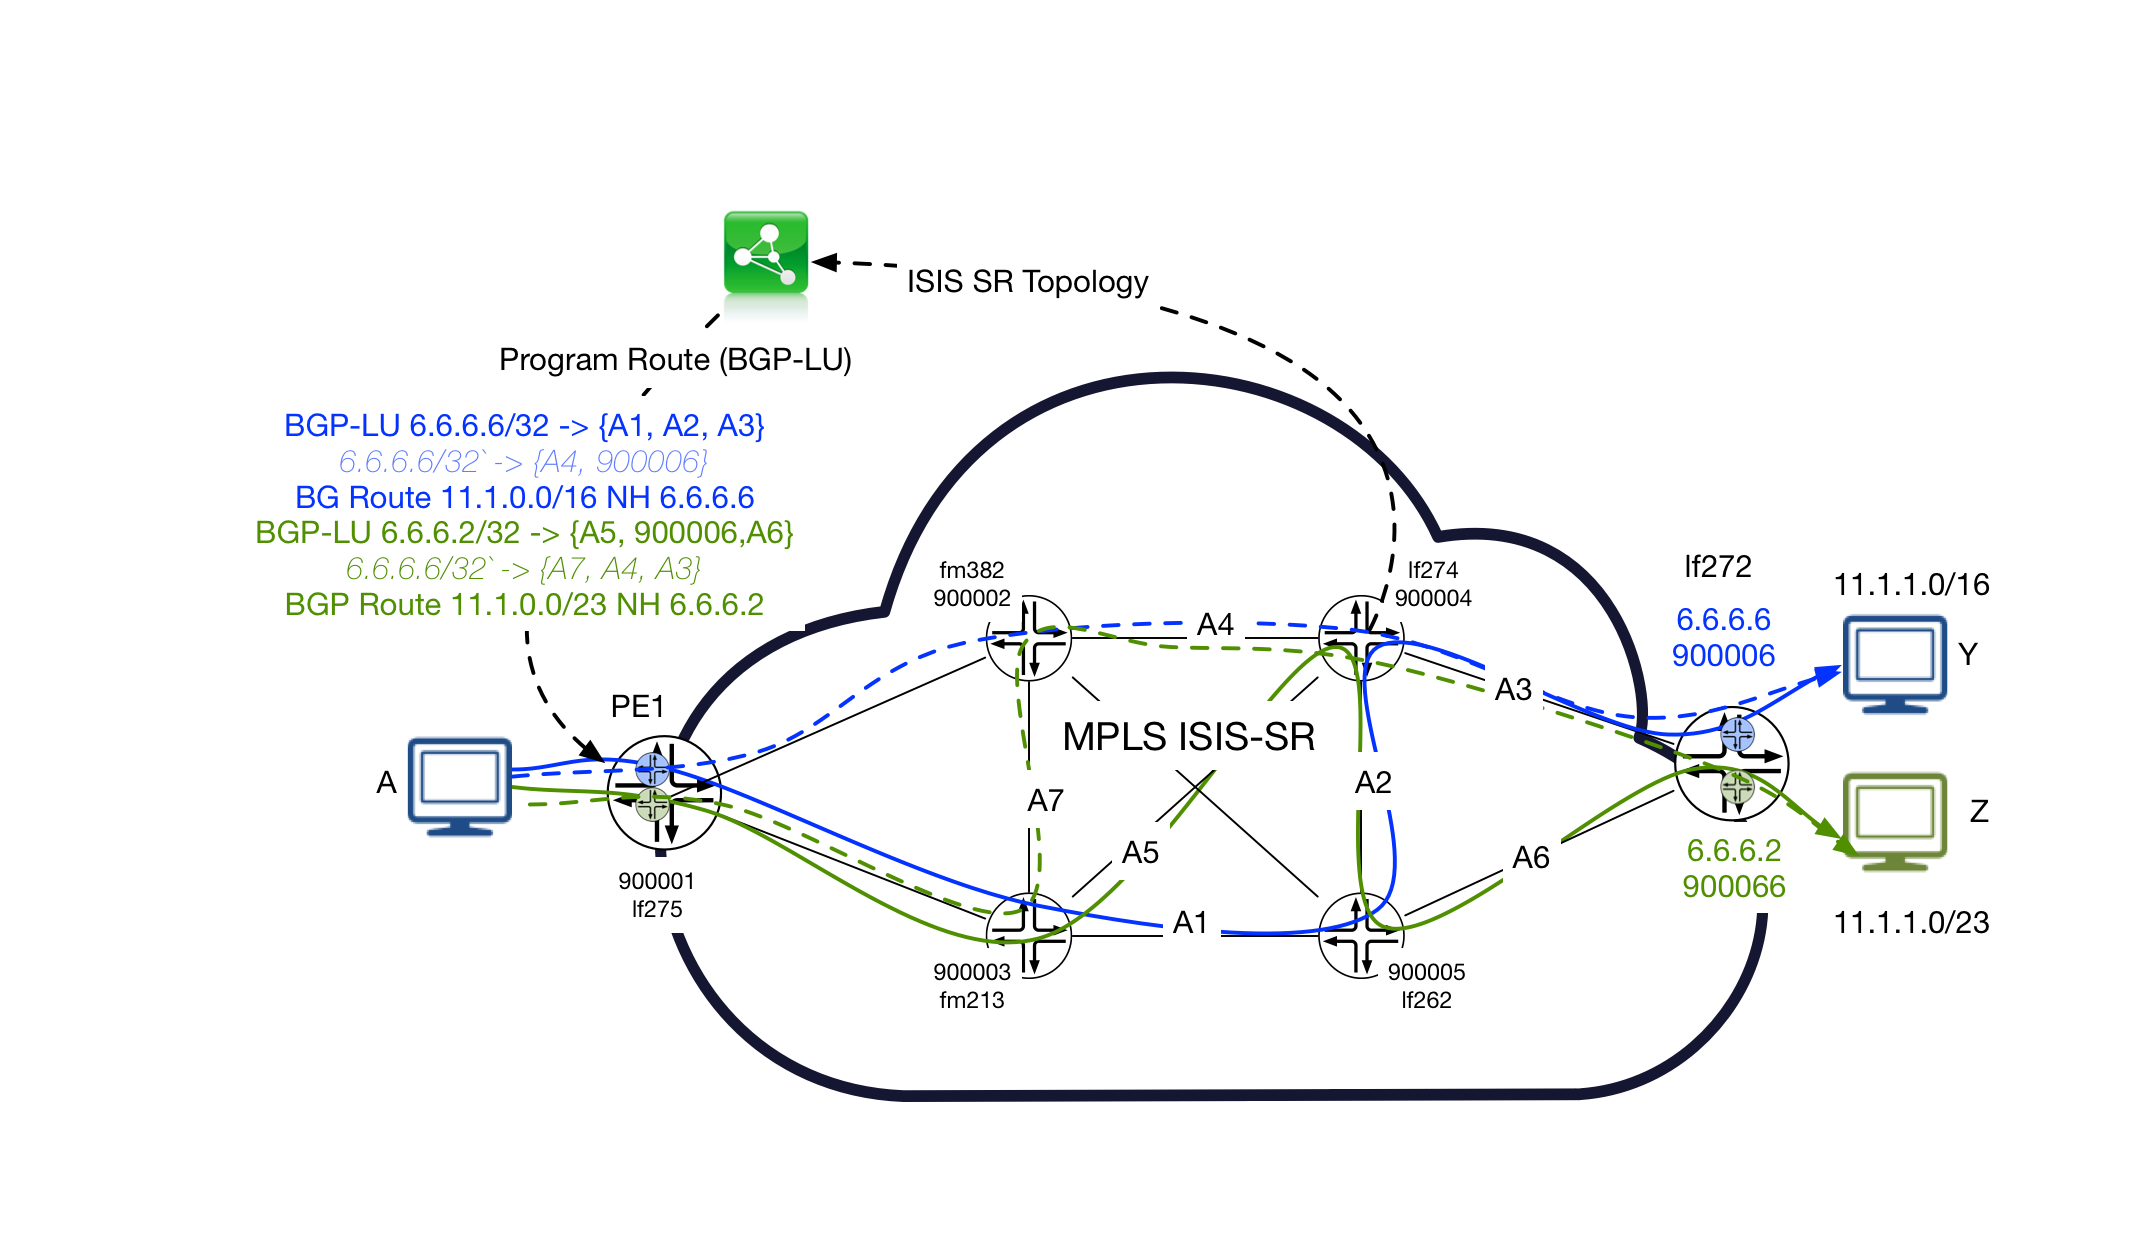
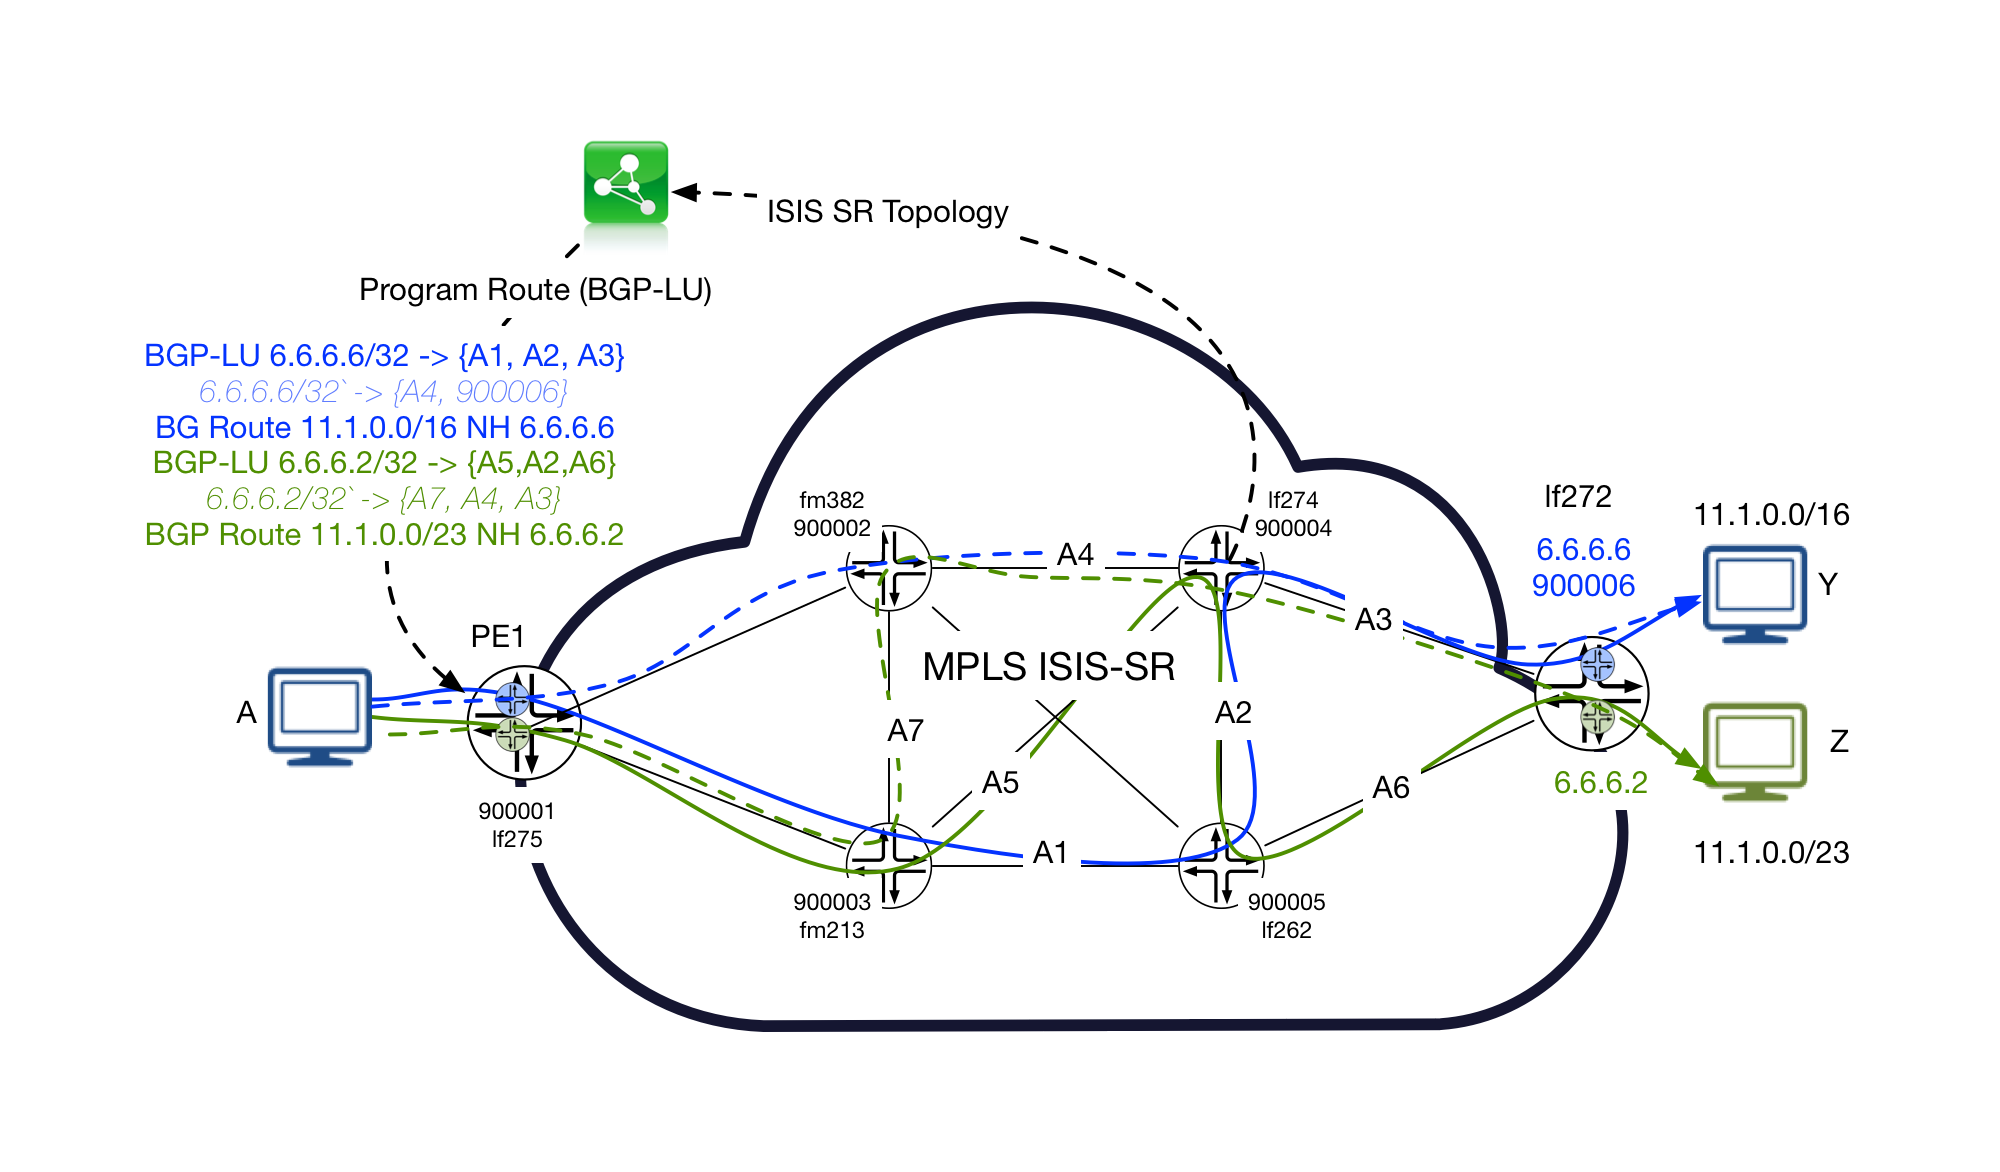
Change Feb7th
Amended Diagrams - changed Makefile and DockerFile.  Changed sr_demo to
add topology change add/remove before path add/remote API.  Also
changed from FEC+NH to just FEC for primary secondary promotion/demotion

diff --git a/sr_demo.py b/sr_demo.py
@@ -39,7 +39,7 @@ C = "show isis database detail"
 ###  System has a 1 second wait at end - so switch doesn't blow.
 
 COMMANDS = [C]
-CONTROLLER_IP = '172.24.73.61'
+CONTROLLER_IP = '192.168.1.2'
 DEADTIMECOUNTER = 1
 DEADTIMETIMER = 0.5
 BGP_LU_Peer = '172.24.74.46'
@@ -490,9 +490,10 @@ class AddRemoveRoutes(Process):
 							Path_String = ' '.join(self.data['path'])
 							currentpath = str(self.data['fec'])+' next-hop ' + str(self.data['dstFecNH']) + ' label ['+str(Path_String)+']'
 							current_fec_NH = str(self.data['fec'])+' next-hop ' + str(self.data['dstFecNH'])
+							current_fec = str(self.data['fec'])
 							
-		### Do a couple of funky operations.  1) If the currentpath is in Primary path list - skip. 2) If the FEC+NH are the Same
-		### The put the "latest" in Primary and relegate the old one to secondary.  This keeps the rotuer and the controller in sync.
+		### Do a couple of funky operations.  1) If the currentpath is in Primary path list - skip. 2) If the FEC  are the Same
+		### The put the "latest" in Primary and relegate the current primary to secondary.  This keeps the router and the controller in sync.
 		## As the router will always take the latest as advertised from exabgp. 3) Else - just add currentpath to PrimaryPath List
 		
 							if PrimaryPathList == []:
@@ -500,17 +501,17 @@ class AddRemoveRoutes(Process):
 							for entry in PrimaryPathList:
 								if currentpath in PrimaryPathList:
 									pass
-								elif current_fec_NH in entry and currentpath in SecondaryPathList:
+								elif current_fec in entry and currentpath in SecondaryPathList:
 									SecondaryPathList.remove(currentpath)
 									PrimaryPathList.append(currentpath)
 									PrimaryPathList.remove(entry)
 									SecondaryPathList.append(entry)
-								elif current_fec_NH in entry and currentpath not in SecondaryPathList:
+								elif current_fec in entry and currentpath not in SecondaryPathList:
 									PrimaryPathList.remove(entry)
 									SecondaryPathList.append(entry)
 									PrimaryPathList.append(currentpath)
 								elif currentpath not in PrimaryPathList:
-									if b_any(current_fec_NH in x for x in PrimaryPathList):
+									if b_any(current_fec in x for x in PrimaryPathList):
 										pass
 									else:
 										PrimaryPathList.append(str(self.data['fec'])+' next-hop ' + str(self.data['dstFecNH']) + ' label ['+str(Path_String)+']')
@@ -642,7 +643,16 @@ class AddRemoveRoutes(Process):
 							SecondaryPathList.remove(path)
 							TopoChangeAddPathList.append(path)
 
-							
+		#### Now update Primary Path list for Visibility.
+					
+				for path in TopoChangeAddPathList:
+					PrimaryPathList.append(path)
+				for path in TopoChangeRemovePathList:
+					PrimaryPathList.remove(path)
+					
+				TopoChangeAddPathList = []
+				TopoChangeRemovePathList = []
+				
 		## We now have the primary table with reoved routes so len(OldPrimaryPathList) >= len(PrimaryPathList) should pick up the withdraw routes
 		## for the path routes.  We also have TopoChangeAddPathList and TopoChangeRemovePathList we need to action below.  We dont add these to the
 		## primaryPath list until after the Paths are added/removed
@@ -689,34 +699,8 @@ class AddRemoveRoutes(Process):
 							sleep(.2)
 							print 'announce route '+str(route)
 							
-		#### Now withdraw the routes from Topology Change (arista only has one active path - so matching on next hop should be fine )
-					
-				if TopoChangeRemovePathList != []:
-					for route in TopoChangeRemovePathList:
-						path_copy = copy.deepcopy(route)
-						withdraw_ip = path_copy.split("next-hop", 1)[0]
-						r = requests.post('http://' + str(controller_ip) + ':5000', files={'command': (None, 'withdraw route ' + str(withdraw_ip) +' label [800000]''\n')})
-						sleep(.2)
-						print 'withdraw route ' + str(withdraw_ip) +'label [800000]''\n'
-
-		#### Now add the routes from the topology change list.		
-
-				if TopoChangeAddPathList != []:
-					for route in TopoChangeAddPathList:
-						r = requests.post('http://' + str(controller_ip) + ':5000', files={'command': (None, 'announce route '+str(route))})
-						sleep(.2)
-						print 'announce route '+str(route)
-						
 			
-		#### Now update Primary Path list for Visibility.
-					
-				for path in TopoChangeAddPathList:
-					PrimaryPathList.append(path)
-				for path in TopoChangeRemovePathList:
-					PrimaryPathList.remove(path)
-					
-				TopoChangeAddPathList = []
-				TopoChangeRemovePathList = []
+
 				
 		### Final Step (from above:  Search the Active Service prefixes - and if there is no route in the primary or
 		### secondary table with it's NH - then use the default, or remove it.  I havent decided yet.
